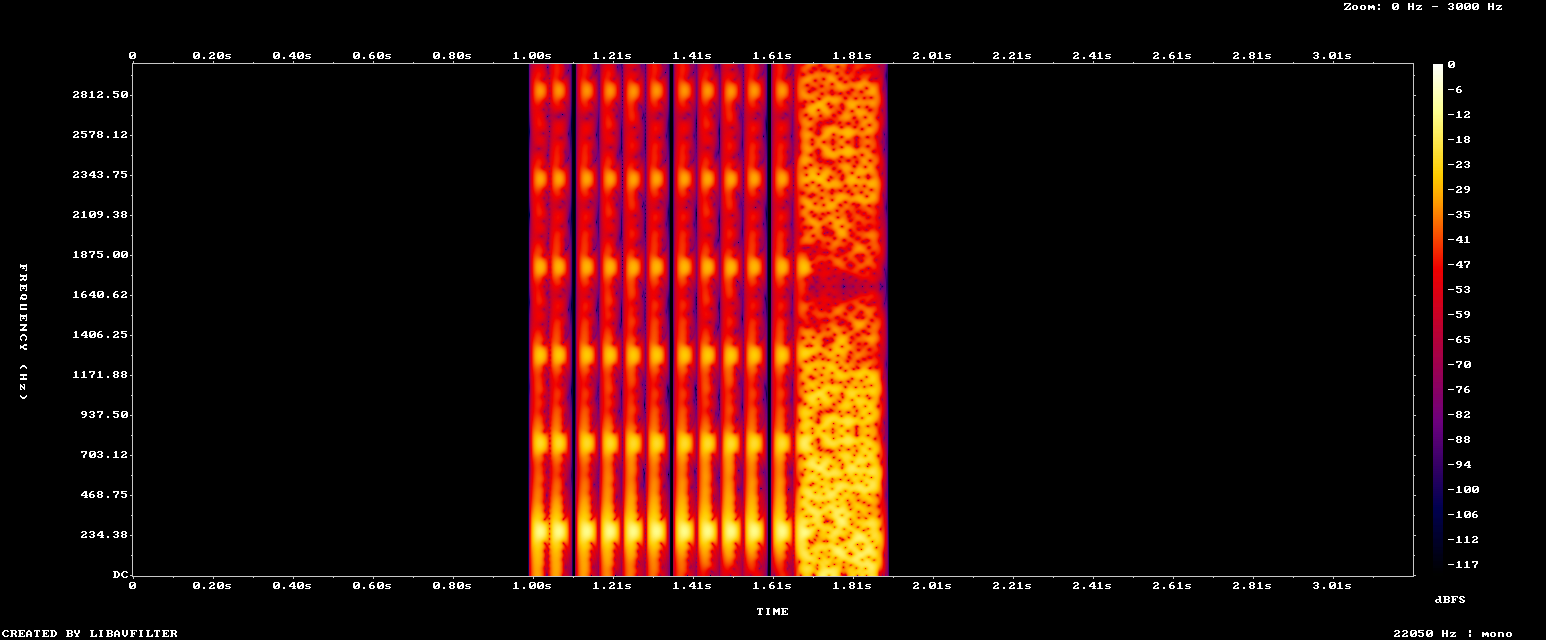
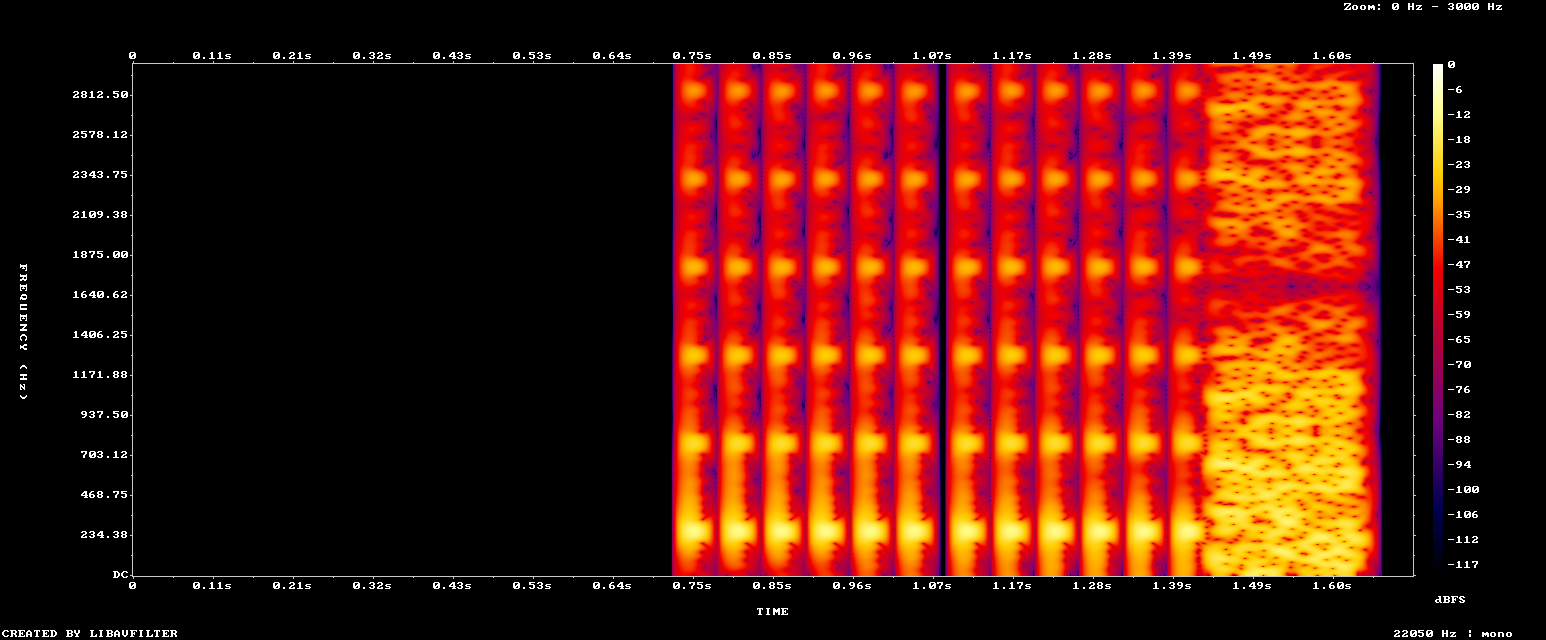
fix(sound): pin note clamp and long falls, test the channels, end the noise without Step
- scripts/note-clamp-long-fall.inputs pins the note clamp and a fall past 32 steps.
- parity-sound (run.sh --sound, in --all) checks beep and noise pitch, volume, envelope, trigger, channels, hold and release.
- The noise decays to 0 over 2 s instead of holding at full scale, so a hidden tab that stops the main loop cannot hold it. Volume 0xe80c keeps the rms of the 180 ms hold.
- The parity configure writes chuckie.h only when its content changes.
- The beep and noise log is off the STM32 build.
- Correct the noise-gain reasoning, the live capture's timing, and the plan's lane 5 and CE-8 files.

Claude-Session: https://claude.ai/code/session_01QnfgoXeMih7TVDetstyYur

diff --git a/tools/parity/sound_test.cpp b/tools/parity/sound_test.cpp
@@ -1,0 +1,177 @@
+// SPDX-License-Identifier: GPL-3.0-only
+// Copyright (C) 2020-2026 ntwyman
+
+// The trace diff sees the note and period of a sound, not what Game does with 32Blit's channels. This drives
+// Game and checks the channels against the arithmetic in docs: the beep's pitch, envelope and trigger, the
+// noise's pitch, hold and release, and that the noise ends by itself when no Step releases it.
+
+#include "game.hpp"
+#include "engine/api_private.hpp"
+
+#include <cmath>
+#include <cstdio>
+
+static blit::AudioChannel host_channels[CHANNEL_COUNT];
+static blit::APIConst host_api = [] {
+  blit::APIConst api{};
+  api.debug = [](const char *) {};
+  api.channels = host_channels;
+  return api;
+}();
+static blit::APIData host_api_data;
+
+namespace blit {
+const APIConst &api = host_api;
+APIData &api_data = host_api_data;
+}
+
+using blit::ADSRPhase;
+using blit::AudioChannel;
+using blit::Waveform;
+
+static int failures = 0;
+
+static void expect(bool ok, const char *what, int a = 0, int b = 0) {
+  if (!ok) {
+    fprintf(stderr, "sound_test: %s (%d, %d)\n", what, a, b);
+    failures++;
+  }
+}
+
+static const int UPSTREAM_HOLD_STEPS = 6;
+static const int WALK_NOTE = 64;
+static const int WALK_HZ = 259;
+static const int EGG_NOISE_HZ = 1696;
+static const int GRAIN_NOISE_HZ = 3392;
+static const int NOISE_RELEASE_MS = 20;
+static const int AUDIO_RATE = 22050;
+
+static int expectedBeepHz(int period) {
+  return static_cast<int>(std::lround(44100.0 / (2.0 * (period + 1))));
+}
+
+static int expectedNoiseHz(int period) {
+  return static_cast<int>(std::lround(44100.0 / (period + 1)));
+}
+
+static void checkConfig() {
+  Game game(1, 0);
+  game.InitAudio();
+  const AudioChannel &beep = blit::channels[0];
+  const AudioChannel &noise = blit::channels[1];
+  expect(beep.waveforms == Waveform::SQUARE, "the beep is a square wave on channel 0");
+  expect(beep.volume == 0xbfff, "the beep volume", beep.volume);
+  expect(beep.attack_ms == 1 && beep.decay_ms == 19 && beep.sustain == 0, "the beep envelope", beep.attack_ms, beep.decay_ms);
+  double area = beep.volume / 65535.0 * (beep.attack_ms + beep.decay_ms) / 2.0;
+  expect(std::fabs(area - 7.5) < 0.01, "the beep envelope area matches upstream's 7.5", static_cast<int>(area * 1000));
+  expect(noise.waveforms == Waveform::NOISE, "the noise is a noise wave on channel 1");
+  expect(noise.volume == 0xe80c, "the noise volume", noise.volume);
+  expect(noise.attack_ms == 10 && noise.decay_ms == 2000 && noise.sustain == 0, "the noise envelope", noise.attack_ms, noise.decay_ms);
+  expect(noise.release_ms == NOISE_RELEASE_MS, "the noise release", noise.release_ms);
+  double hold = 0;
+  int samples = 0;
+  for (double ms = 10; ms < 190; ms += 0.05, samples++) {
+    double level = 1.0 - (ms - 10) / noise.decay_ms;
+    hold += level * level;
+  }
+  double rms = 16910.0 * noise.volume / 65536.0 * std::sqrt(hold / samples);
+  expect(std::fabs(rms - 14644.0) < 100.0, "the noise rms over the hold is 14,644", static_cast<int>(rms));
+}
+
+static void enter(Game &game) {
+  blit::Size screen(320, 240);
+  game.SetScreenSize(screen);
+  game.InitAudio();
+  game.Step(BUTTON_A);
+  game.Step(0);
+  game.Step(BUTTON_A);
+}
+
+struct Counts {
+  int beeps = 0;
+  int noises = 0;
+  int walkBeeps = 0;
+  int eggs = 0;
+  int grains = 0;
+  int holds = 0;
+};
+
+static void play(Counts &counts, uint8_t direction, int jumpEvery) {
+  AudioChannel &beep = blit::channels[0];
+  AudioChannel &noise = blit::channels[1];
+  Game game(1, 0);
+  enter(game);
+  int sinceNoise = -1;
+  for (int step = 0; step < 220; step++) {
+    beep.adsr_phase = ADSRPhase::OFF;
+    uint8_t buttons = direction;
+    if (jumpEvery && step % jumpEvery == 5) {
+      buttons |= BUTTON_A;
+    }
+    game.Step(buttons);
+    FrameTrace t = game.Snapshot();
+    if (game.BeepNote() != NO_NOTE) {
+      counts.beeps++;
+      expect(beep.adsr_phase == ADSRPhase::ATTACK, "a beep triggers the channel", step);
+      expect(beep.frequency == expectedBeepHz(t.beep_period), "the beep pitch", beep.frequency, expectedBeepHz(t.beep_period));
+      if (game.BeepNote() == WALK_NOTE) {
+        counts.walkBeeps++;
+        expect(beep.frequency == WALK_HZ, "a walking beep plays 259 Hz", beep.frequency);
+      }
+    } else {
+      expect(beep.adsr_phase == ADSRPhase::OFF, "no note, no trigger", step);
+    }
+    if (game.NoiseNote() != NO_NOTE) {
+      counts.noises++;
+      int want = game.NoiseNote() == 6 ? EGG_NOISE_HZ : GRAIN_NOISE_HZ;
+      counts.eggs += game.NoiseNote() == 6;
+      counts.grains += game.NoiseNote() == 5;
+      expect(noise.adsr_phase == ADSRPhase::ATTACK, "a noise triggers the channel", step);
+      expect(noise.frequency == want, "the noise pitch", noise.frequency, want);
+      expect(noise.frequency == expectedNoiseHz(t.noise_period), "the noise pitch follows its period", noise.frequency);
+      sinceNoise = 0;
+    } else if (sinceNoise >= 0) {
+      sinceNoise++;
+      if (sinceNoise < UPSTREAM_HOLD_STEPS) {
+        expect(noise.adsr_phase != ADSRPhase::RELEASE && noise.adsr_phase != ADSRPhase::OFF, "the noise is held", sinceNoise);
+      } else {
+        counts.holds += sinceNoise == UPSTREAM_HOLD_STEPS;
+        expect(noise.adsr_phase == ADSRPhase::RELEASE, "the noise is released after six steps", sinceNoise);
+      }
+    }
+  }
+}
+
+// A hidden browser tab stops the main loop, so no Step releases the noise. The mixer alone must end it.
+static void checkEndsWithoutStep() {
+  AudioChannel &noise = blit::channels[1];
+  Game game(1, 0);
+  enter(game);
+  for (int step = 0; step < 220 && noise.adsr_phase == ADSRPhase::OFF; step++) {
+    game.Step(BUTTON_RIGHT);
+  }
+  expect(noise.adsr_phase != ADSRPhase::OFF, "the walk takes a grain or egg");
+  blit::AudioChannel copy = noise;
+  noise.frequency = copy.frequency;
+  noise.trigger_attack();
+  for (int frame = 0; frame < AUDIO_RATE * 5 / 2; frame++) {
+    blit::get_audio_frame();
+  }
+  expect(noise.adsr_phase == ADSRPhase::OFF, "a noise nothing releases ends within 2.5 s", static_cast<int>(noise.adsr_phase));
+}
+
+int main() {
+  checkConfig();
+  Counts counts;
+  play(counts, BUTTON_RIGHT, 0);
+  play(counts, BUTTON_LEFT, 0);
+  play(counts, BUTTON_RIGHT, 30);
+  expect(counts.beeps > 20 && counts.walkBeeps > 10, "the walks beep", counts.beeps, counts.walkBeeps);
+  expect(counts.noises >= 2 && counts.holds >= 1, "the walks take items", counts.noises, counts.holds);
+  expect(counts.eggs >= 1 && counts.grains >= 1, "an egg and a grain both sound", counts.eggs, counts.grains);
+  checkEndsWithoutStep();
+  if (failures == 0) {
+    printf("sound_test: ok (%d beeps, %d noises)\n", counts.beeps, counts.noises);
+  }
+  return failures == 0 ? 0 : 1;
+}

diff --git a/game.cpp b/game.cpp
@@ -885,9 +885,15 @@ static uint16_t noiseHz(int period) {
     return static_cast<uint16_t>((UPSTREAM_RATE + cycle / 2) / cycle);
 }
 
-// Upstream's 10 ms volume steps (audio.c:beep_vol, noise_vol) become ADSR ramps, with each voice's channel
-// volume set so the beep's envelope area matches upstream's and the noise's rms does. 32Blit's noise has a
-// standard deviation of 65536 / sqrt(12), against upstream's +-0x3fff, so 0xddb3 gives 0x3fff rms.
+// Upstream's 10 ms volume steps (audio.c:beep_vol, noise_vol) become ADSR ramps. The beep's channel volume
+// makes its envelope area match upstream's. The noise's gain keeps its rms close to upstream's: 32Blit's
+// generator returns up to +-65535 into the int16_t AudioChannel::noise, so 8.3 percent of its samples wrap and
+// its standard deviation is 16,910. At 0xddb3 the voice's rms is 14,644, which is 1.0 dB under upstream's total
+// rms (16,383) and 0.33 dB under its rms about the mean (15,213). The second is the one to match, because
+// upstream's LFSR noise carries a DC offset that nobody hears.
+// The noise decays from full scale to 0 over 2 s instead of holding at full scale, so a noise burst that
+// Step never releases (a hidden browser tab stops the main loop but not the audio) fades out in 2 s rather than
+// hissing. The decay lowers the rms over the 180 ms hold to 0.9554 of a flat level, so the volume is raised to 0xe80c.
 void Game::InitAudio() {
     AudioChannel &beep = channels[BEEP_CHANNEL];
     beep.waveforms = Waveform::SQUARE;
@@ -897,10 +903,10 @@ void Game::InitAudio() {
     beep.sustain = 0;
     AudioChannel &noise = channels[NOISE_CHANNEL];
     noise.waveforms = Waveform::NOISE;
-    noise.volume = 0xddb3;
+    noise.volume = NOISE_VOLUME;
     noise.attack_ms = 10;
-    noise.decay_ms = 1;
-    noise.sustain = 0xffff;
+    noise.decay_ms = NOISE_DECAY_MS;
+    noise.sustain = 0;
     noise.release_ms = 20;
 }
 

diff --git a/chuckie_egg.cpp b/chuckie_egg.cpp
@@ -47,12 +47,14 @@ void update(uint32_t time) {
   uint32_t steps = frame_clock.due(now());
   for (uint32_t i = 0; i < steps; i++) {
     game.Step(readButtons());
+#ifndef TARGET_32BLIT_HW
     if (game.BeepNote() != NO_NOTE) {
       debugf("Beep note %d\r\n", game.BeepNote());
     }
     if (game.NoiseNote() != NO_NOTE) {
       debugf("Noise note %d\r\n", game.NoiseNote());
     }
+#endif
   }
   if (steps > 0) {
     step_count += steps;

diff --git a/game.hpp b/game.hpp
@@ -30,6 +30,8 @@ enum GameState {HOW_MANY, READY_PLAYER, LEVEL, GAME_OVER};
 #define NOISE_CHANNEL 1
 // audio.c's noise lasts 200 ms, and the port holds it for six 30 ms steps before its 20 ms release.
 #define NOISE_HOLD_STEPS 6
+#define NOISE_VOLUME 0xe80c
+#define NOISE_DECAY_MS 2000
 #define NO_NOTE INT32_MIN
 
 /*** Game interface.  */

diff --git a/tools/live/README.md b/tools/live/README.md
@@ -14,7 +14,7 @@
 | `drive.sh start` | Starts `Xvfb` and the game, and returns once the game has logged its first step, so a key sent next reaches a game that polls input. If the game already runs, it says so and does nothing. |
 | `drive.sh start --level <n>` | Builds the SDL target in `build.sdl-level<n>` with `-DCHUCKIE_START_LEVEL=<n>`, then starts it, so a new game starts on level `<n>` (1 to 256, as the HUD numbers it). It refuses `LIVE_BIN`. The build log is `$LIVE_STATE/build.log`. |
 | `drive.sh start --score <n>` | The same with `-DCHUCKIE_START_SCORE=<n>` in `build.sdl-score<n>`, so a new game starts with score `<n>` (0 to 99999999). It combines with `--level` in `build.sdl-level<l>-score<n>`. |
-| `drive.sh start --audio <file>` | Starts the game with SDL's `disk` audio driver (`SDL_AUDIODRIVER=disk`, `SDL_DISKAUDIOFILE=<file>`), which writes the game's sound to `<file>` as raw signed 16-bit little-endian mono at 22,050 Hz. It combines with `--level` and `--score`, refuses a game that already runs, and replaces an existing file. The file grows in real time, silence included. See "Audio capture". |
+| `drive.sh start --audio <file>` | Starts the game with SDL's `disk` audio driver (`SDL_AUDIODRIVER=disk`, `SDL_DISKAUDIOFILE=<file>`), which writes the game's sound to `<file>` as raw signed 16-bit little-endian mono at 22,050 Hz. It combines with `--level` and `--score`, refuses a game that already runs, and replaces an existing file. The file grows about as fast as the clock, silence included, but not exactly. See "Audio capture". See "Audio capture". |
 | `drive.sh spectrogram <audio.raw> <path.png>` | Renders a capture from `start --audio` as a spectrogram, 0 to 3,000 Hz against time, with `ffmpeg`. |
 | `drive.sh keys <script>` | Sends a key script. A `<script>` with a `/` is a path. A bare name is looked up in `tools/live/scripts/` (as given, then with `.keys`) and only then in the current directory. Use `./name.keys` for a file in the current directory. An empty script does nothing and exits zero. |
 | `drive.sh play <script.inputs>` | Replays a trace-diff input script (`tools/parity/scripts/*.inputs`) on a fresh game, one game step per script frame. See "Frame-exact replay". |
@@ -94,7 +94,7 @@ LIVE_LANE=500 tools/live/drive.sh stop
 tools/live/drive.sh spectrogram /tmp/walk.raw /tmp/walk.png
 ```
 
-The capture starts when the game opens its audio device, a moment before the first step. To mux it with a recording, add `-f s16le -ar 22050 -ac 1 -i <file>` to the `ffmpeg` command and offset it by the time between the two starts. To check a capture without a spectrogram, `tr -d '\0' < <file> | head -c 1` prints nothing for silence.
+The capture starts when the game opens its audio device, a moment before the first step. It is not real time. In probes the `disk` driver's file grew at 0.88 to 0.96 times wall time, and captures of a `play` run came out 1.9 to 2.5 percent longer than the script. A pitch and an envelope length inside a capture are exact, because the mixer writes one sample per 1/22,050 s, but the spacing between sounds that follow the game's steps can drift by a few percent. Line a capture up with a trace by the order of its sounds and the gaps between them, not by a sample offset. To mux it with a recording, add `-f s16le -ar 22050 -ac 1 -i <file>` to the `ffmpeg` command and offset it by the time between the two starts. To check a capture without a spectrogram, `tr -d '\0' < <file> | head -c 1` prints nothing for silence.
 
 The dev container needs nothing for this. A PulseAudio null sink, the fallback if the `disk` driver wrote nothing, is not installed.
 

diff --git a/tools/parity/README.md b/tools/parity/README.md
@@ -10,6 +10,7 @@ tools/parity/run.sh --script idle
 tools/parity/run.sh --record held-through-death
 tools/parity/run.sh --clock
 tools/parity/run.sh --game-over
+tools/parity/run.sh --sound
 tools/parity/run.sh --self-test
 ```
 
@@ -27,6 +28,8 @@ The last line of a diverging report, `every difference: <n> field values over <m
 `--clock` runs `clock_test`, which feeds `FrameClock::due` fixed timestamps and checks how many `Game::Step` calls it returns. The trace diff cannot see the clock, because it calls `Step` once per input frame. `--all` runs it after the scripts.
 
 `--game-over` runs `game_over_test`, which plays five deaths and checks that A does not leave the game-over screen for its first 67 steps (about two seconds), and that a fresh press then does. It also plays a game that reaches level 2 to game over and checks that the next game starts on level 1 with level 1's bonus, lives, and score, where upstream starts it with the bonus of the level reached (see "Two quirks the port does not copy"). The trace diff cannot see the screen, because the original starts a new game at once. `--all` runs it after the clock test.
+
+`--sound` runs `sound_test`, which drives `Game` and checks what it writes to the 32Blit channels, which the trace cannot see: the beep's waveform, volume, envelope, trigger and pitch in Hz, the noise's pitch, volume, six-step hold and release, that the beep sits on channel 0 and the noise on channel 1, and that a noise nothing releases ends within 2.5 s when only the mixer runs (a hidden browser tab stops the main loop). `--all` runs it last. `scripts/note-clamp-long-fall.inputs` pins a fall long enough that `MakeSound`'s note is -2 and `sound_start` clamps it to 0.
 
 `--self-test` checks the comparator on fixed traces. CI runs it before `--all`.
 
@@ -76,6 +79,8 @@ The build copies `chuckie.c` and applies `patches/*.patch` to the copy in name o
 Two optional field pairs appear only on a frame that starts a sound. `beep_note` and `beep_period` are the note `MakeSound` passes to `sound_start` (`chuckie.c:690`) and the half-period in samples that `audio.c` derives from it, at 44,100 Hz. `noise_note` and `noise_period` are the same for the noise `squidge` starts when Henry takes an egg (note 6) or grain (note 5). The original driver includes upstream's own `audio.c` and reads `tone_period` after `sound_start` runs, so a wrong lookup table, a wrong 1.2 factor, or a wrong divisor in the port shows as a differing period. A frame with no sound has none of these fields on either side.
 
 The fields are Henry's x, y, tile, partial position, and mode, whether he died this frame, then the score, lives, bonus, timer, the player whose turn it is, and the level as the HUD numbers it minus one (`current_level`), then the lift positions on a level with a lift, the duck timer, the hen countdown that picks which hen moves next (`current_duck`), the mother duck's position, direction and wing frame, the hen count, and each hen's position and mode. The mother duck's position and wing frame are traced on every level, because upstream keeps the duck in its cage on levels 1 to 8 and flaps its wings there. Hens past the level's count are left out, because both games keep stale values there.
+
+The port plays the mixer's nominal 44.1 kHz mono, as upstream's `audio-alsa.c` does. Upstream's SDL front end opens a stereo device and fills it with mono samples, so it plays an octave high. The port does not copy that.
 
 ## Building without the 32Blit engine
 

diff --git a/docs/plans/port-completion.md b/docs/plans/port-completion.md
@@ -499,6 +499,7 @@ Each live lane runs in its own git worktree at the PR head, inside the dev conta
 
 - [ ] Edit `game.cpp` and `game.hpp`.
 - [ ] Edit `chuckie_egg.cpp`.
+- [ ] Edit `CMakeLists.txt` for the parity build only, with a guarded copy of upstream's `chuckie.h` and a copy of `audio.c` in the build folder, so the original driver can include both `chuckie.c` and `audio.c`.
 
 **Build.**
 
@@ -519,7 +520,7 @@ Each live lane runs in its own git worktree at the PR head, inside the dev conta
 - [ ] Lane 2. Climb a ladder. Save `climb-audio.png`. Pass when the beep pitch differs from walking.
 - [ ] Lane 3. Jump. Save `jump-audio.png`. Pass when the pitch follows the original's jump table.
 - [ ] Lane 4. Take an egg. Save `egg-audio.png`. Pass when a noise burst starts on that frame.
-- [ ] Lane 5. Take grain. Save `grain-audio.png`. Pass when a shorter noise burst starts on that frame.
+- [ ] Lane 5. Take grain. Save `grain-audio.png`. Pass when a noise burst of the same length as an egg's, at a higher rate, starts on that frame. Upstream's `audio.c` gives both the one `noise_vol` envelope, and `sound_start` changes only the rate by `note & 3`.
 - [ ] Lane 6. Stand still for 5 seconds. Save `idle-audio.png`. Pass when no sound plays.
 - [ ] Lane 7. Reach game over. Save `game-over-audio.png`. Pass when sound stops.
 - [ ] Lane 8. Play the web build in Playwright's headless Chromium and read its console log. Save `web-audio.png`. Pass when `debugf` shows a beep trigger on the walking frames.
